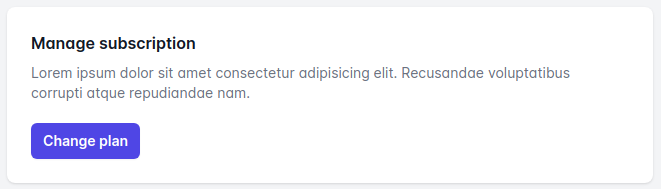
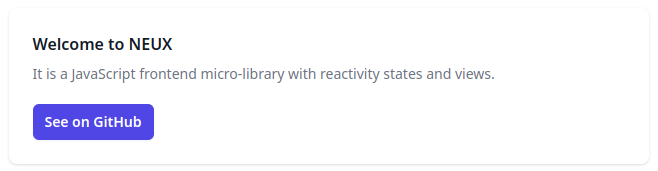
Update post about NEUX

Changed region(s): [[0.0304, 0.3509, 0.8815, 0.5263], [0.0304, 0.5848, 0.2432, 0.848], [0.0304, 0.1754, 0.304, 0.2924]]

diff --git a/pages/neux/index.md b/pages/neux/index.md
@@ -6,7 +6,7 @@ comments: false
 footer: false
 ---
 
-[NEUX](https://github.com/meefik/neux) is a nifty ecosystem for user experience development. The JS frontend library has features and tools are suitable for building small single-page applications (SPA) or isolated UI components.
+[NEUX](https://github.com/meefik/neux) is a nifty ecosystem for user experience development. It is a JavaScript frontend micro-library with reactivity states and views. The library has features and tools are suitable for building small single-page applications (SPA) or isolated UI components.
 
 Here are the main concepts behind NEUX:
 
@@ -33,8 +33,9 @@ Here are the main concepts behind NEUX:
 6. [Routing](#routing)
 7. [Remote procedure call](#remote-procedure-call)
 8. [State synchronization](#state-synchronization)
-9. [Use with Tailwind CSS](#use-with-tailwind-css)
-10. [Examples](#examples)
+9. [Use with Vite](#use-with-vite)
+10. [Use with Tailwind CSS](#use-with-tailwind-css)
+11. [Examples](#examples)
 
 ## Installation
 
@@ -621,16 +622,57 @@ sync('undo');
 sync('clear');
 ```
 
-## Use with Tailwind CSS
+## Use with Vite
 
-It also fits well with the [Tailwind CSS](https://tailwindcss.com). After [installing Tailwind CSS](https://tailwindcss.com/docs/installation) into your project you can use CSS classes in the `classList` field as `String` or `Array`.
+You can use NEUX with [Vite](https://vitejs.dev) bundler.
 
-An example of the `tailwind.config.js` configuration file:
+How to set up:
+
+**1.** Create a new Vite project (select a variant JavaScript):
+
+```sh
+npm create vite@latest
+```
+
+**2.** Install the `neux` module:
+
+```sh
+npm install --save-dev neux
+```
+
+**3.** Paste your application code into the `main.js` file:
 
 ```js
-/** @type {import('tailwindcss').Config} */
+import { createView } from 'neux';
+
+createView({
+  textContent: 'Hello World!'
+}, document.body);
+```
+
+**4.** Run the project:
+
+```sh
+npm run dev
+```
+
+## Use with Tailwind CSS
+
+It also fits well with [Tailwind CSS](https://tailwindcss.com). After [installing Tailwind CSS](https://tailwindcss.com/docs/installation) into your project you can use CSS classes in the `classList` field as `String` or `Array`.
+
+How to set up your Vite project:
+
+**1.** Install the required modules:
+
+```sh
+npm install --save-dev tailwindcss postcss autoprefixer
+```
+
+**2.** Create the file `tailwind.config.js`:
+
+```js
 export default {
-  content: ['./index.html', './src/**/*.{js,ts}'],
+  content: ['./index.html', './main.js'],
   theme: {
     extend: {}
   },
@@ -638,32 +680,63 @@ export default {
 };
 ```
 
-Use attribute `classList` in your NEUX view:
+**3.** Create the file `postcss.config.js`:
 
 ```js
+export default {
+  plugins: {
+    tailwindcss: {},
+    autoprefixer: {}
+  }
+};
+```
+
+**4.** Replace the contents of the `style.css` file with:
+
+```css
+@tailwind base;
+@tailwind components;
+@tailwind utilities;
+```
+
+**5.** Replace the contents of the `main.js` file with:
+
+```js
+import './style.css';
+import { createView } from 'neux';
+
 createView({
-  classList: ['bg-white', 'shadow', 'sm:rounded-lg'],
+  classList: ['container', 'mx-auto', 'py-5'],
   children: [{
-    classList: ['px-4', 'py-5', 'sm:p-6'],
+    classList: ['bg-white', 'shadow', 'sm:rounded-lg'],
     children: [{
-      tagName: 'h3',
-      classList: ['text-base', 'font-semibold', 'leading-6', 'text-gray-900'],
-      textContent: 'Manage subscription'
-    }, {
-      classList: ['mt-2', 'max-w-xl', 'text-sm', 'text-gray-500'],
+      classList: ['px-4', 'py-5', 'sm:p-6'],
       children: [{
-        tagName: 'p',
-        textContent: 'Lorem ipsum dolor sit amet consectetur adipisicing elit. Recusandae voluptatibus corrupti atque repudiandae nam.'
-      }]
-    }, {
-      classList: ['mt-5'],
-      children: [{
-        tagName: 'button',
-        type: 'button',
-        classList: ['inline-flex', 'items-center', 'rounded-md', 'bg-indigo-600', 'px-3', 'py-2', 
-          'text-sm', 'font-semibold', 'text-white', 'shadow-sm', 'hover:bg-indigo-500', 
-          'focus-visible:outline', 'focus-visible:outline-2', 'focus-visible:outline-offset-2','focus-visible:outline-indigo-500'],
-        textContent: 'Change plan'
+        tagName: 'h3',
+        classList: ['text-base', 'font-semibold', 'leading-6', 'text-gray-900'],
+        textContent: 'Welcome to NEUX'
+      }, {
+        classList: ['mt-2', 'max-w-xl', 'text-sm', 'text-gray-500'],
+        children: [{
+          tagName: 'p',
+          textContent: 'It is a JavaScript frontend micro-library with reactivity states and views.'
+        }]
+      }, {
+        classList: ['mt-5'],
+        children: [{
+          tagName: 'button',
+          type: 'button',
+          classList: ['inline-flex', 'items-center', 'rounded-md', 'bg-indigo-600', 'px-3', 'py-2', 
+            'text-sm', 'font-semibold', 'text-white', 'shadow-sm', 'hover:bg-indigo-500', 
+            'focus-visible:outline', 'focus-visible:outline-2', 'focus-visible:outline-offset-2',
+            'focus-visible:outline-indigo-500'],
+          textContent: 'See on GitHub',
+          on: {
+            click: () => {
+              window.open('https://meefik.github.io/neux');
+            }
+          }
+        }]
       }]
     }]
   }]
@@ -676,6 +749,6 @@ Output:
 
 ## Examples
 
-You can find more development examples with the NEUX library in a separate [neux-demo](https://github.com/meefik/neux-demo) repository.
+You can find an example To-Do application in the [neux-todo-app](https://github.com/meefik/neux-todo-app) repository. More development examples with the NEUX library are in the [neux-demo](https://github.com/meefik/neux-demo) repository.
 
 <p><iframe src="https://ghbtns.com/github-btn.html?user=meefik&repo=neux&type=star&count=true&size=large" frameborder="0" scrolling="0" width="170" height="30" title="GitHub"></iframe></p>
